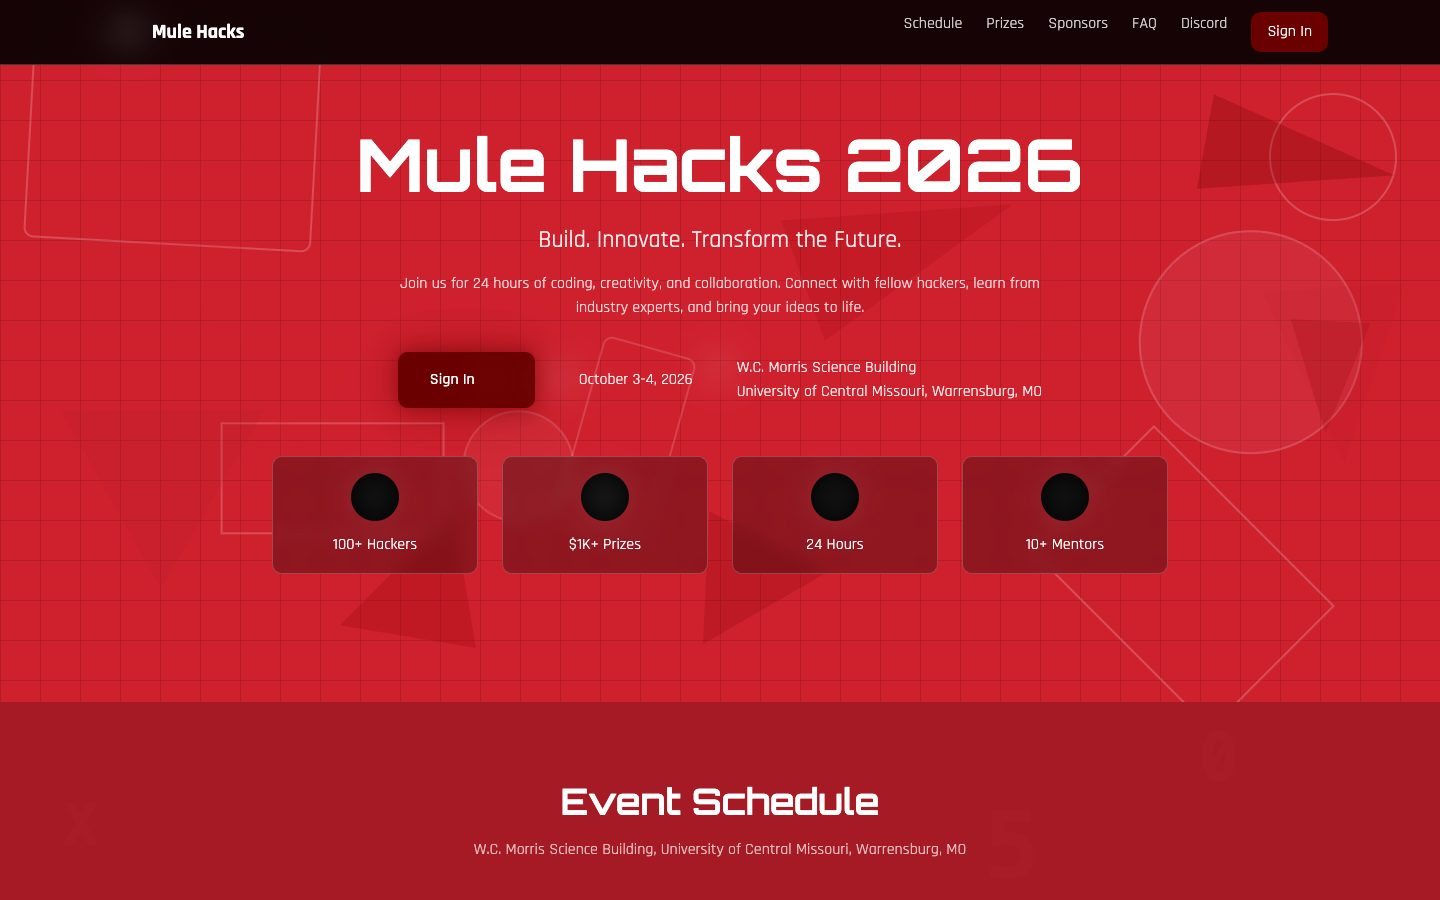
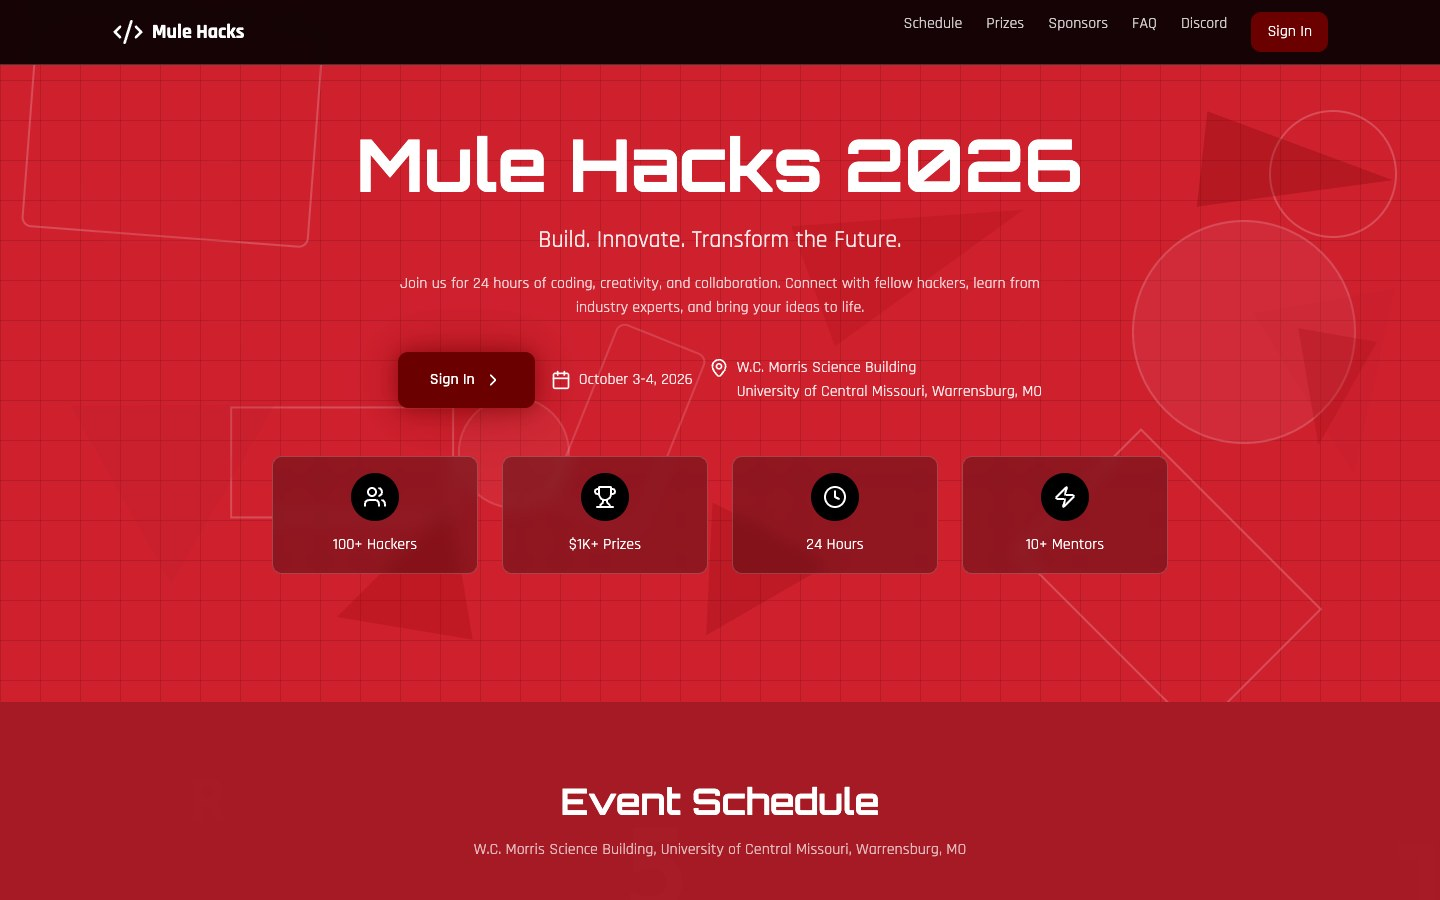
update read_me.md

diff --git a/README.md b/README.md
@@ -1,11 +1,9 @@
-# Mule Hacks 2026
+# MuleHacks Hacker App
 
 The event site, registration flow, check-in desk, and judging console for Mule Hacks, a 24-hour student hackathon at the University of Central Missouri on October 3–4, 2026.
 
-**[Live site](https://mule-hacks-landing-2026.fly.dev)**
-
 <p align="center">
-  <img src="docs/screenshots/landing-hero.jpg" alt="Mule Hacks 2026 landing page hero" />
+  <img src="docs/screenshots/landing-hero.jpg" alt="MuleHacks Hacker App landing page hero" />
 </p>
 
 <p align="center">
@@ -38,10 +36,29 @@ Judges shared one login, typed their own names, and scored submitted teams on a 
   <img src="docs/screenshots/team-page.jpg" alt="Team dashboard with project submit reminder" />
 </p>
 
+<p align="center">
+  <img src="docs/screenshots/check-in.jpg" alt="Organizer QR check-in scanner" />
+</p>
+
+<p align="center">
+  <img src="docs/screenshots/judge-teams.jpg" alt="Judge view of submitted teams" />
+</p>
+
+<p align="center">
+  <img src="docs/screenshots/judge-rubric.jpg" alt="Judge rubric scored 1 to 5" />
+</p>
+
+<p align="center">
+  <img src="docs/screenshots/admin-dashboard.jpg" alt="Admin dashboard with live event counts" />
+</p>
+
+<p align="center">
+  <img src="docs/screenshots/admin-judging.jpg" alt="Admin judging averages and individual sheets" />
+</p>
 
 ## Stack
 
-React and Vite on the client, Express and MongoDB Atlas on the server, deployed on Fly.io.
+React and Vite on the client, Express and MongoDB Atlas on the server, previously deployed on Fly.io.
 
 ## Run locally
 
